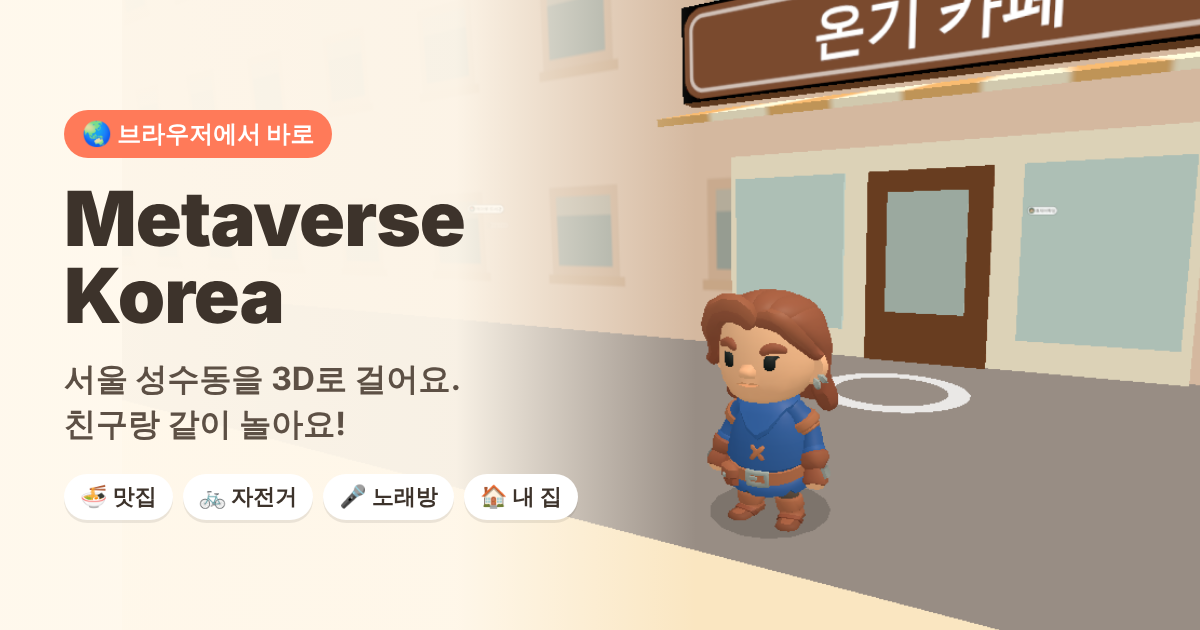
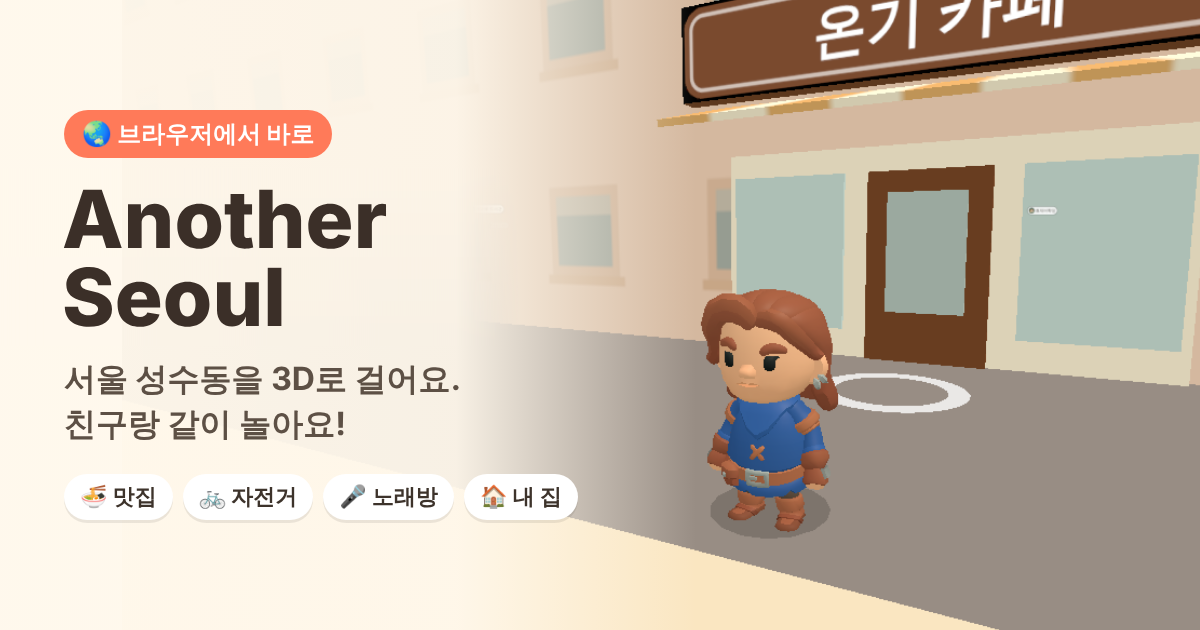
Rename the game to Another Seoul
The user picked Another Seoul (another-seoul.com) instead of Metaverse
Seoul, which is already the name of Seoul City's public metaverse platform.
Korean 어나더서울, Japanese アナザー・ソウル; other languages keep the
English name. Also renames the photo-booth strip label and download name,
the in-game billboard, and redraws the title on the link-preview image.

Claude-Session: https://claude.ai/code/session_018gjGZ4P55RFdsRcj5HVXu9

Changed region(s): [[0.0308, 0.3016, 0.4008, 0.3921], [0.0308, 0.4222, 0.2467, 0.5429]]

diff --git a/index.html b/index.html
@@ -5,24 +5,24 @@
     <meta name="viewport" content="width=device-width, initial-scale=1.0, maximum-scale=1.0, user-scalable=no, viewport-fit=cover" />
     <meta name="theme-color" content="#bfe3ff" />
     <meta name="description" content="Walk the streets of Seongsu-dong, Seoul, in 3D, right in your browser." />
-    <title>Metaverse Seoul</title>
+    <title>Another Seoul</title>
     <!-- Link previews (KakaoTalk, LINE, WeChat, iMessage, Discord…): a picture
          with a character, a title and a line about the game. -->
     <meta property="og:type" content="website" />
-    <meta property="og:site_name" content="Metaverse Seoul" />
-    <meta property="og:title" content="Metaverse Seoul · 서울 성수동을 3D로 걸어요" />
+    <meta property="og:site_name" content="Another Seoul" />
+    <meta property="og:title" content="Another Seoul · 서울 성수동을 3D로 걸어요" />
     <meta property="og:description" content="브라우저에서 바로, 친구랑 같이 성수동 골목을 걷고 맛집·자전거·노래방을 즐겨요. Walk Seongsu-dong, Seoul, in 3D with friends." />
     <meta property="og:url" content="%VITE_SITE_URL%" />
     <meta property="og:image" content="%VITE_SITE_URL%og.png" />
     <meta property="og:image:width" content="1200" />
     <meta property="og:image:height" content="630" />
-    <meta property="og:image:alt" content="Metaverse Seoul: a character in front of a café in Seongsu-dong" />
+    <meta property="og:image:alt" content="Another Seoul: a character in front of a café in Seongsu-dong" />
     <meta name="twitter:card" content="summary_large_image" />
     <meta name="twitter:image" content="%VITE_SITE_URL%og.png" />
     <link rel="icon" type="image/png" href="./favicon.png" />
     <link rel="apple-touch-icon" href="./icon-180.png" />
-    <meta name="application-name" content="Metaverse Seoul" />
-    <meta name="apple-mobile-web-app-title" content="Metaverse Seoul" />
+    <meta name="application-name" content="Another Seoul" />
+    <meta name="apple-mobile-web-app-title" content="Another Seoul" />
     <link rel="stylesheet" href="/src/style.css" />
   </head>
   <body>
@@ -114,7 +114,7 @@
       <div class="ad-overlay" id="ad-overlay" hidden>
         <div class="ad-box">
           <small data-i18n="wallet.adDemo"></small>
-          <strong>🇰🇷 Metaverse Seoul</strong>
+          <strong>🇰🇷 Another Seoul</strong>
           <span class="ad-count" id="ad-count">5</span>
           <button class="chip" id="ad-close" data-i18n="wallet.skip"></button>
         </div>

diff --git a/public/privacy.html b/public/privacy.html
@@ -3,7 +3,7 @@
 <head>
 <meta charset="UTF-8" />
 <meta name="viewport" content="width=device-width, initial-scale=1" />
-<title>Privacy Policy · Metaverse Seoul</title>
+<title>Privacy Policy · Another Seoul</title>
 <style>
   :root { --ink: #3d3530; --soft: #7a6e66; --bg: #fffaf2; --card: #ffffff; --accent: #e0604d; }
   @media (prefers-color-scheme: dark) { :root { --ink: #f3ece4; --soft: #b9aea5; --bg: #221e1b; --card: #2d2824; --accent: #ff8a75; } }
@@ -22,13 +22,13 @@
 <body>
 <main>
   <h1>Privacy Policy · 개인정보처리방침</h1>
-  <p class="meta">Metaverse Seoul · Last updated 2026-11-02 · <a href="./">Back to the game</a></p>
+  <p class="meta">Another Seoul · Last updated 2026-11-02 · <a href="./">Back to the game</a></p>
   <p class="draft">Test version. This text should be reviewed before the public launch.<br>테스트용 버전입니다. 정식 출시 전에 검토가 필요합니다.</p>
   <nav><a href="#en">English</a> · <a href="#ko">한국어</a></nav>
 
   <section id="en">
     <h2>1. Who we are</h2>
-    <p>Metaverse Seoul is a free, browser-based virtual trip to Korea. Operator and privacy officer: <b>Hyojae Jung (정효재)</b>. Contact: <a href="mailto:yozi999a@gmail.com">yozi999a@gmail.com</a>.</p>
+    <p>Another Seoul is a free, browser-based virtual trip to Korea. Operator and privacy officer: <b>Hyojae Jung (정효재)</b>. Contact: <a href="mailto:yozi999a@gmail.com">yozi999a@gmail.com</a>.</p>
 
     <h2>2. What we collect and why</h2>
     <table>
@@ -56,7 +56,7 @@
 
   <section id="ko">
     <h2>1. 운영자</h2>
-    <p>메타버스 서울는 브라우저에서 즐기는 무료 가상 한국 여행 서비스입니다. 운영자 겸 개인정보 보호책임자: <b>정효재</b>, 연락처: <a href="mailto:yozi999a@gmail.com">yozi999a@gmail.com</a>.</p>
+    <p>어나더서울는 브라우저에서 즐기는 무료 가상 한국 여행 서비스입니다. 운영자 겸 개인정보 보호책임자: <b>정효재</b>, 연락처: <a href="mailto:yozi999a@gmail.com">yozi999a@gmail.com</a>.</p>
 
     <h2>2. 처리하는 정보와 목적</h2>
     <table>

diff --git a/src/ui/photo-ui.js b/src/ui/photo-ui.js
@@ -84,7 +84,7 @@ function drawCover(g, s, x, y, w, h) {
 }
 
 // Put four shots (canvases or images, any size) into a vertical strip.
-export function composeStrip(shots, frame = 'white', label = 'METAVERSE SEOUL', date = new Date(), { frames = FRAMES, mono = false, caption = '조각스튜디오' } = {}) {
+export function composeStrip(shots, frame = 'white', label = 'ANOTHER SEOUL', date = new Date(), { frames = FRAMES, mono = false, caption = '조각스튜디오' } = {}) {
   const [bg, ink] = frames[frame] || Object.values(frames)[0];
   const W = 360, cellW = 320, cellH = 220, pad = 20, gap = 12, foot = 70;
   const c = document.createElement('canvas');
@@ -192,8 +192,8 @@ export class PhotoUI {
     x.onclick = () => this.close();
     const img = el('img', 'photo-strip');
     img.src = strip.toDataURL('image/png');
-    img.alt = `METAVERSE SEOUL · ${this.mode.caption}`;
-    const name = `metaverse-seoul-${Date.now()}.png`;
+    img.alt = `ANOTHER SEOUL · ${this.mode.caption}`;
+    const name = `another-seoul-${Date.now()}.png`;
     const save = el('a', 'chip', '💾 ' + tt('save'));
     save.href = img.src;
     save.download = name;
@@ -203,7 +203,7 @@ export class PhotoUI {
       const share = el('button', 'chip', '📤 ' + tt('share'));
       share.onclick = () => strip.toBlob(async (blob) => {
         const file = new File([blob], name, { type: 'image/png' });
-        if (navigator.canShare({ files: [file] })) { try { await navigator.share({ files: [file], title: 'METAVERSE SEOUL' }); } catch { /* cancelled */ } }
+        if (navigator.canShare({ files: [file] })) { try { await navigator.share({ files: [file], title: 'ANOTHER SEOUL' }); } catch { /* cancelled */ } }
       });
       actions.append(share);
     }

diff --git a/src/i18n/strings.js b/src/i18n/strings.js
@@ -430,7 +430,7 @@ export const STRINGS = {
     "name.cancel": "Cancel",
     'start.defaultName': 'Traveler',
     'hud.online': '{n} online',
-    'app.title': 'Metaverse Seoul',
+    'app.title': 'Another Seoul',
     'app.tagline': 'Walk the streets of Korea, right in your browser.',
     'lang.choose': 'Choose your language',
     'lang.change': 'Language',
@@ -892,7 +892,7 @@ export const STRINGS = {
     "name.cancel": "취소",
     'start.defaultName': '여행자',
     'hud.online': '{n}명 접속 중',
-    'app.title': '메타버스 서울',
+    'app.title': '어나더서울',
     'app.tagline': '브라우저에서 바로 한국의 거리를 걸어 보세요.',
     'lang.choose': '언어를 선택하세요',
     'lang.change': '언어',
@@ -1354,7 +1354,7 @@ export const STRINGS = {
     "name.cancel": "キャンセル",
     'start.defaultName': 'Traveler',
     'hud.online': '{n}人がオンライン',
-    'app.title': 'メタバース・ソウル',
+    'app.title': 'アナザー・ソウル',
     'app.tagline': 'ブラウザでそのまま韓国の街を歩こう。',
     'lang.choose': '言語を選択してください',
     'lang.change': '言語',
@@ -1816,7 +1816,7 @@ export const STRINGS = {
     "name.cancel": "取消",
     'start.defaultName': 'Traveler',
     'hud.online': '{n}人在线',
-    'app.title': '元宇宙首尔',
+    'app.title': 'Another Seoul',
     'app.tagline': '在浏览器里直接漫步韩国街头。',
     'lang.choose': '请选择语言',
     'lang.change': '语言',

diff --git a/src/data/updates.js b/src/data/updates.js
@@ -10,13 +10,13 @@ export const UPDATES = [
     id: '2026-11-04-welcome',
     at: '2026.11.04 05:00',
     title: {
-      ko: '메타버스 서울에 오신 걸 환영해요!',
-      en: 'Welcome to Metaverse Seoul!',
-      ja: 'メタバース・ソウルへようこそ！',
-      zh: '欢迎来到元宇宙首尔！',
-      es: '¡Bienvenido a Metaverse Seoul!',
-      id: 'Selamat datang di Metaverse Seoul!',
-      ar: 'أهلًا بك في ميتافيرس سيول!',
+      ko: '어나더서울에 오신 걸 환영해요!',
+      en: 'Welcome to Another Seoul!',
+      ja: 'アナザー・ソウルへようこそ！',
+      zh: '欢迎来到Another Seoul！',
+      es: '¡Bienvenido a Another Seoul!',
+      id: 'Selamat datang di Another Seoul!',
+      ar: 'أهلًا بك في Another Seoul!',
     },
     items: {
       ko: ['한국 사람도,\n한국을 찾은 친구도,\n누구나 함께 모여서\n\n재미있고 즐거운\n서울 라이프를 즐겨 보세요! 🎉'],

diff --git a/src/core/billboard.js b/src/core/billboard.js
@@ -31,7 +31,7 @@ function drawSlide(g, s) {
   g.fillText(s.tag || 'AD', W - 28, 36);
 }
 
-// The animated title card: "메타버스 서울" bouncing over a night skyline
+// The animated title card: "어나더서울" bouncing over a night skyline
 // with Namsan Tower, twinkling stars and a slowly shifting sky (like a GIF).
 const FONT = '"Apple SD Gothic Neo", "Noto Sans KR", system-ui, sans-serif';
 const SKYLINE = [ // [x, width, height] in screen units (0..W), repeats
@@ -67,7 +67,7 @@ export function drawTitleCard(g, t) {
     }
   }
   // Bouncing rainbow letters.
-  const text = '메타버스 서울';
+  const text = '어나더서울';
   g.font = `900 112px ${FONT}`;
   g.textAlign = 'left'; g.textBaseline = 'middle';
   const widths = [...text].map((c) => g.measureText(c).width);

diff --git a/src/i18n/ar.js b/src/i18n/ar.js
@@ -411,7 +411,7 @@ export const AR = {
   "name.cancel": "إلغاء",
   'start.defaultName': 'مسافر',
   'hud.online': '{n} متصل',
-  'app.title': 'Metaverse Seoul',
+  'app.title': 'Another Seoul',
   'app.tagline': 'تجوّل في شوارع كوريا من متصفحك مباشرة.',
   'lang.choose': 'اختر لغتك',
   'lang.change': 'اللغة',

diff --git a/src/i18n/es.js b/src/i18n/es.js
@@ -410,7 +410,7 @@ export const ES = {
   "name.cancel": "Cancelar",
   'start.defaultName': 'Viajero',
   'hud.online': '{n} en línea',
-  'app.title': 'Metaverse Seoul',
+  'app.title': 'Another Seoul',
   'app.tagline': 'Pasea por las calles de Corea desde tu navegador.',
   'lang.choose': 'Elige tu idioma',
   'lang.change': 'Idioma',

diff --git a/src/i18n/id.js b/src/i18n/id.js
@@ -411,7 +411,7 @@ export const ID = {
   "name.cancel": "Batal",
   'start.defaultName': 'Pelancong',
   'hud.online': '{n} online',
-  'app.title': 'Metaverse Seoul',
+  'app.title': 'Another Seoul',
   'app.tagline': 'Jelajahi jalanan Korea, langsung dari browsermu.',
   'lang.choose': 'Pilih bahasamu',
   'lang.change': 'Bahasa',

diff --git a/README.md b/README.md
@@ -1,4 +1,4 @@
-# Metaverse Seoul
+# Another Seoul
 
 A browser-based 3D virtual trip to Korea for international visitors. No install: open the website and walk.
 First stop: **Seongsu-dong, Seoul**.
